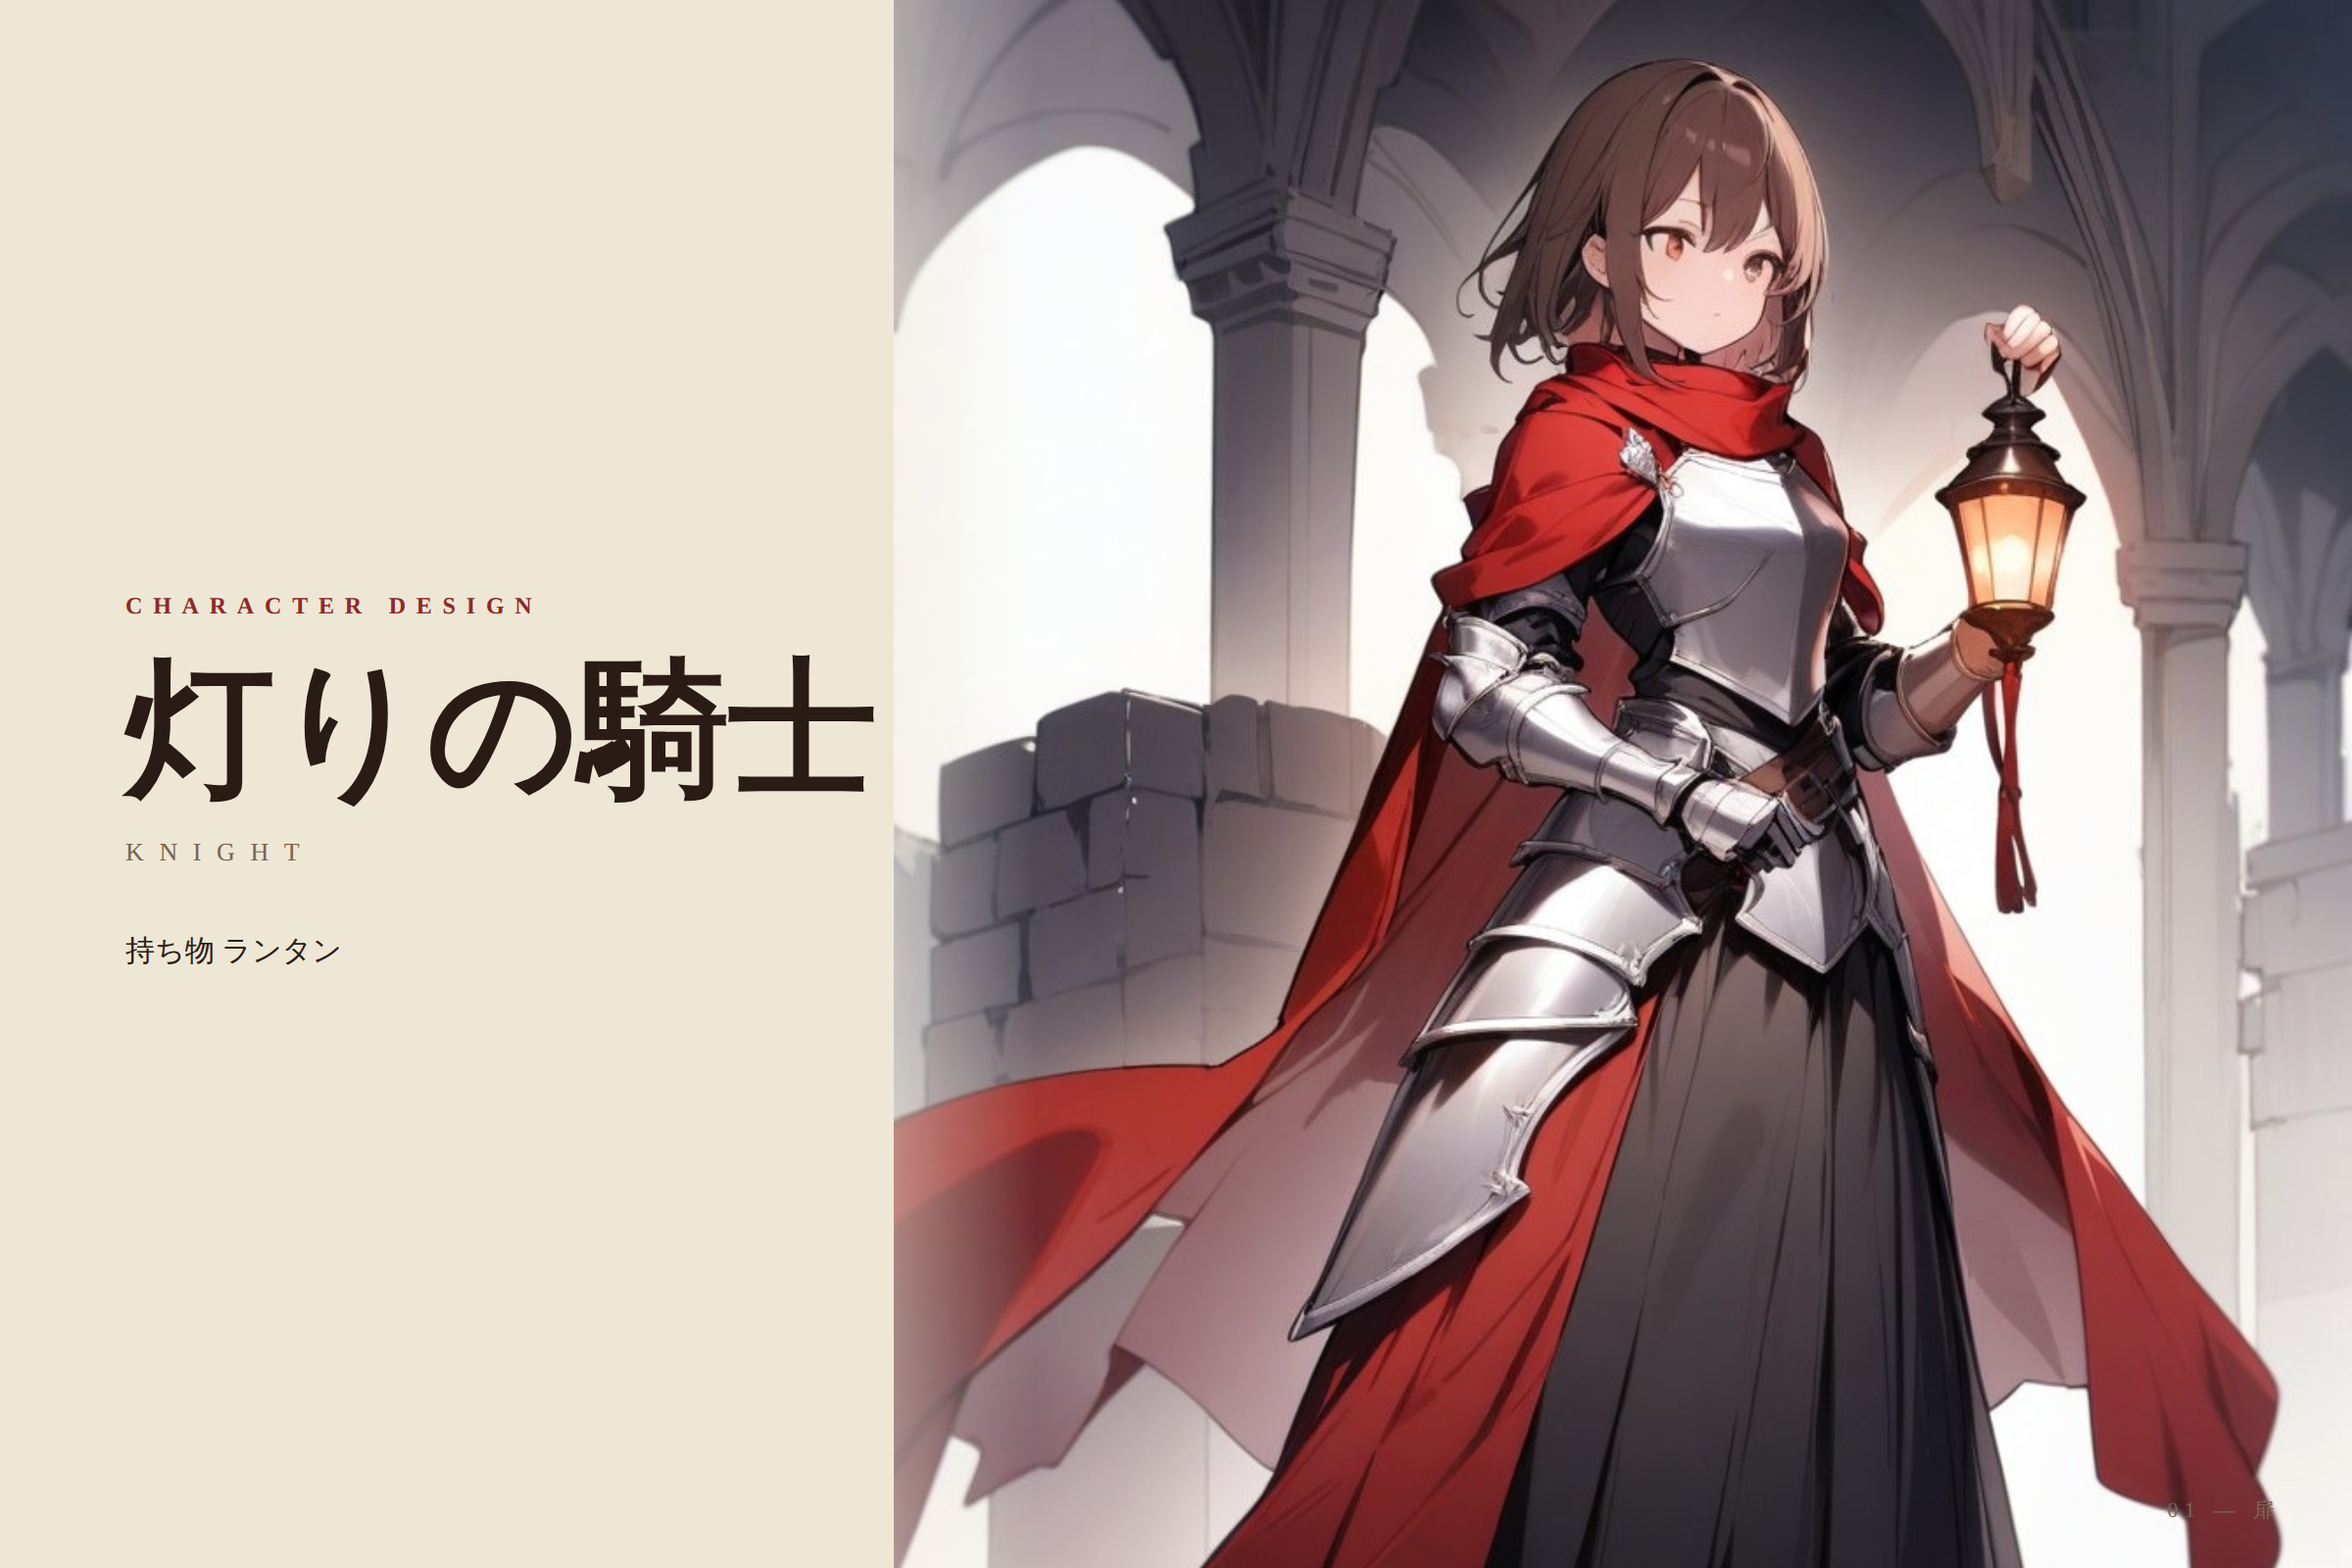
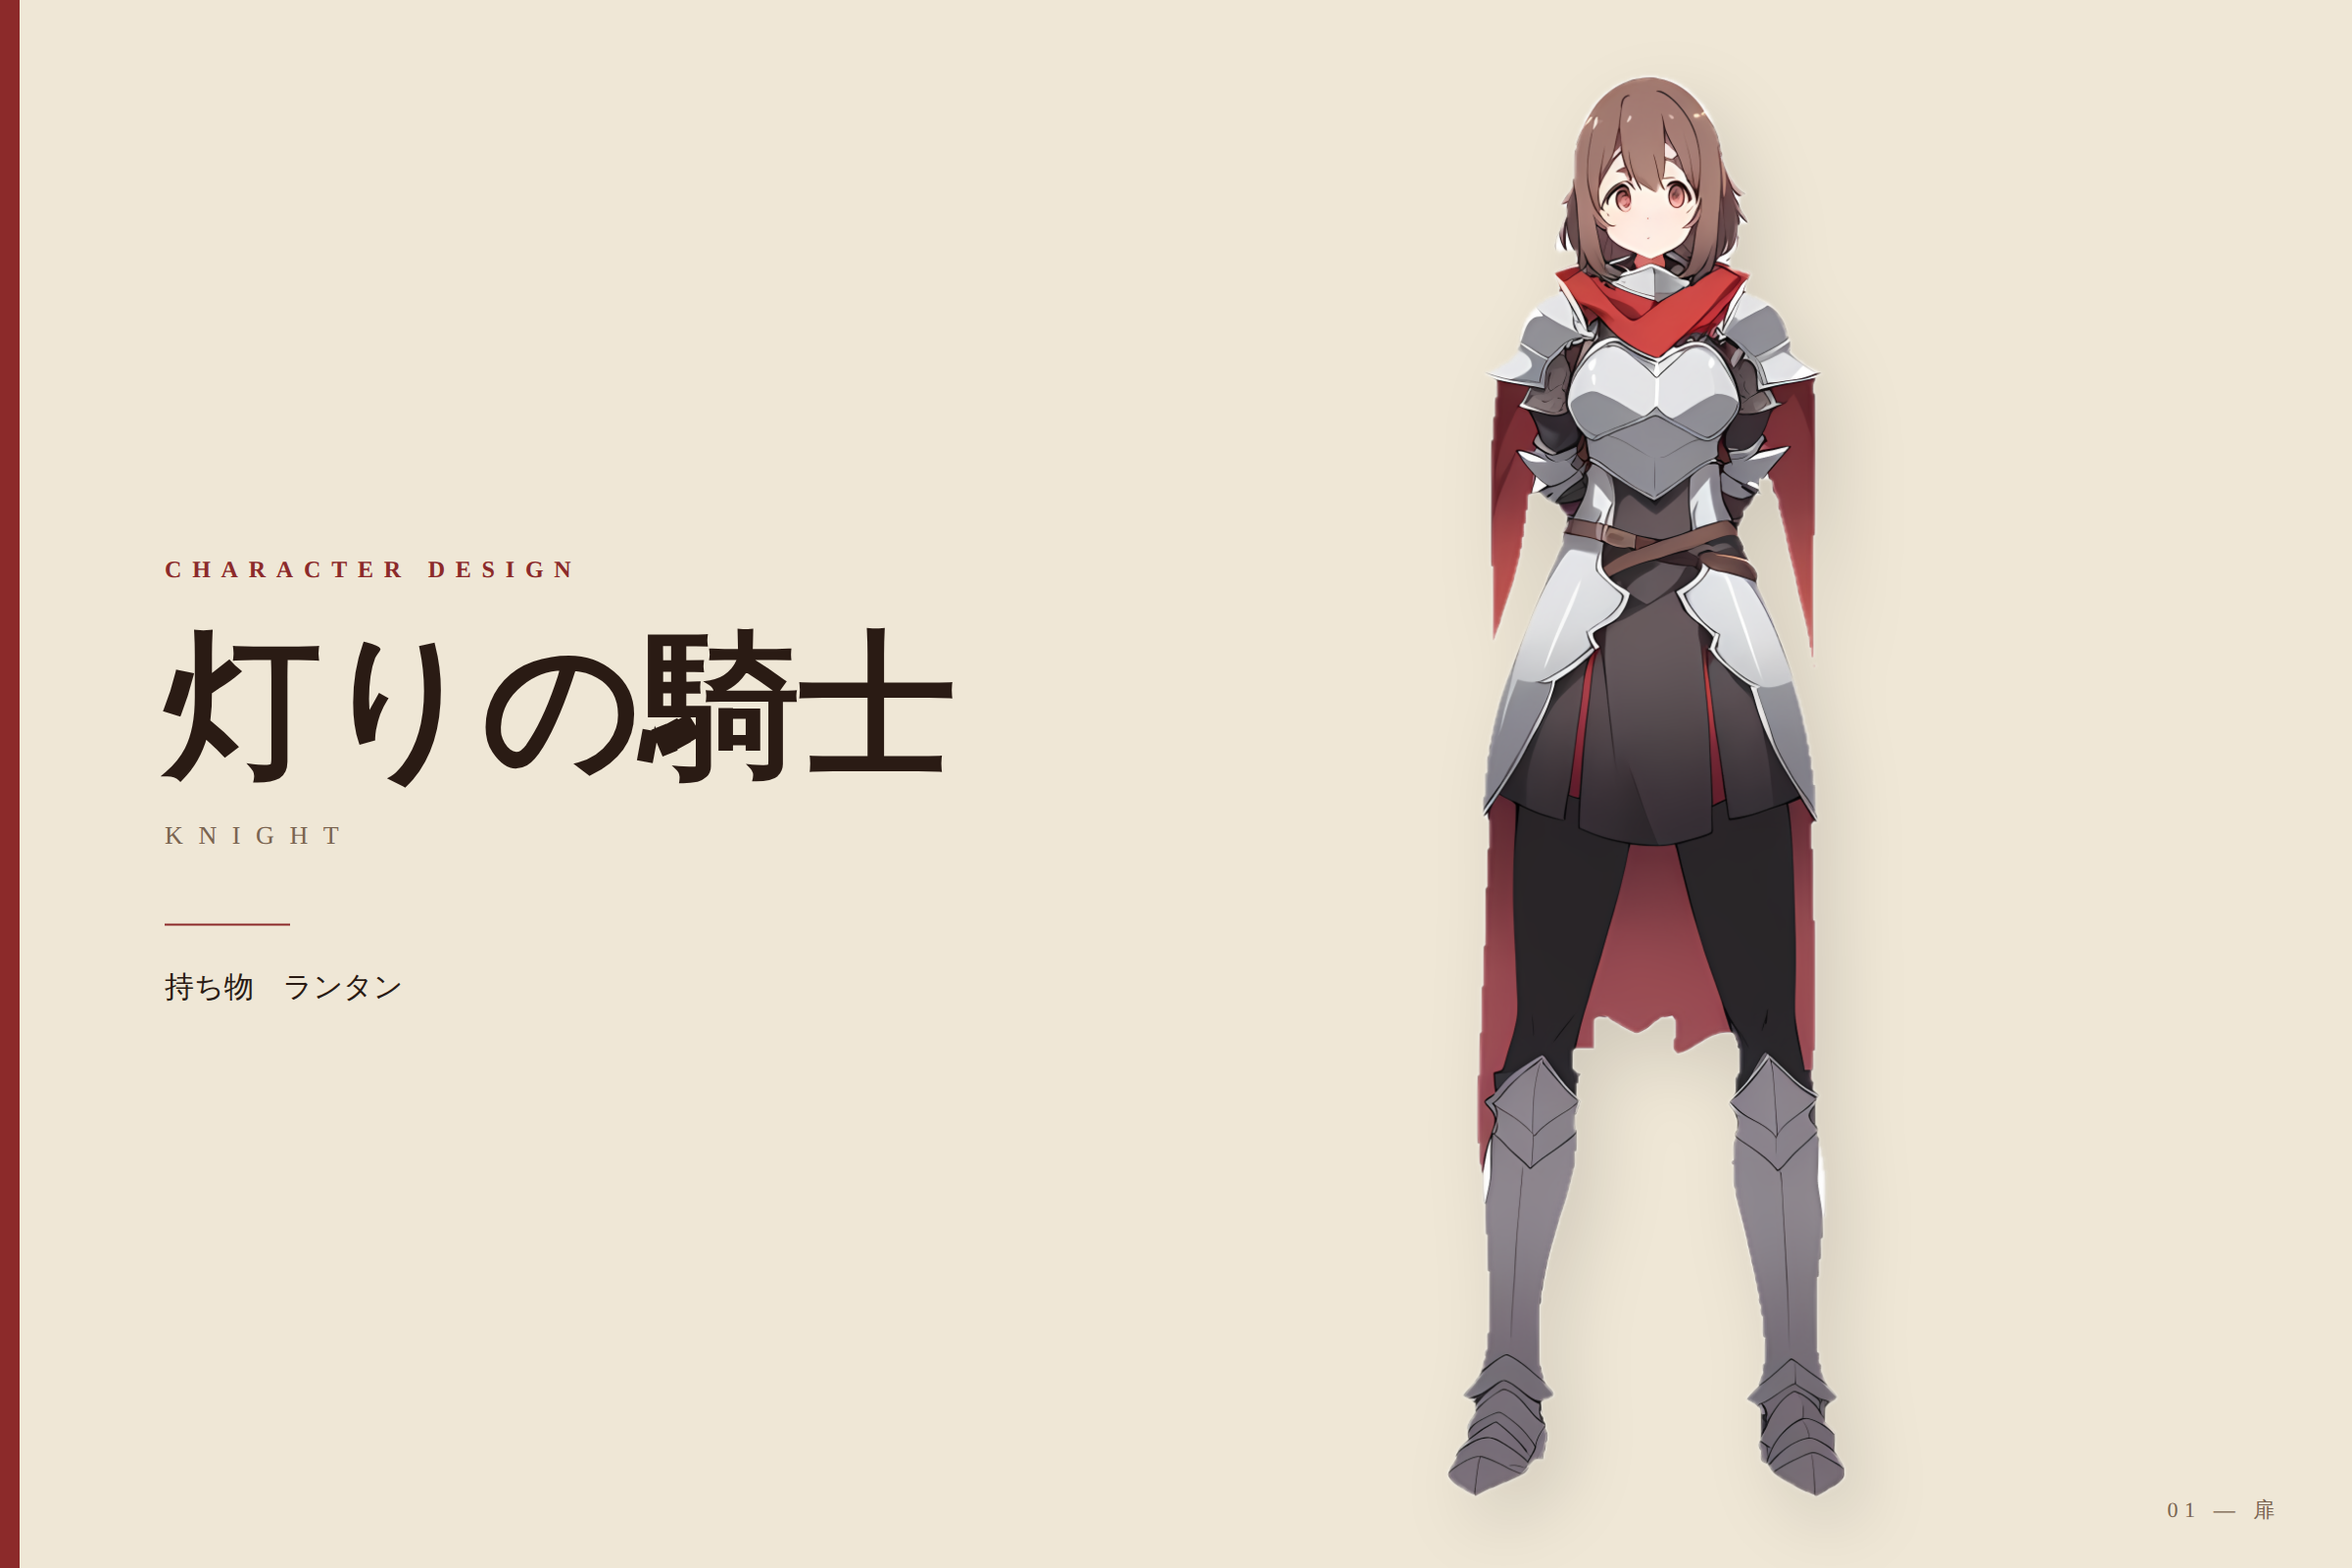
設定画集の扉で全身を欠けずに収め、背景の抜きを ViTMatte で仕上げる
扉は一枚絵を枠いっぱいに広げて左右を切っていた。全身は収め、空いた所に名前を置く。
髪の毛先の間に残った地の白は、覆いの縁を ViTMatte で抜き直して消す。

Claude-Session: https://claude.ai/code/session_01SckJ2FC4PhB88prMhjDTEV

diff --git a/tools/gen/charsheet.py b/tools/gen/charsheet.py
@@ -576,6 +576,19 @@ def _cutout(im, src=None):
                     continue
                 keep[sl] |= comp
             fg = ndimage.binary_fill_holes(keep) & (fg | person)
+            # 髪と腕の間など、人の形に囲まれた白い背景は縁につながらず残った。人の形の外の白は背景として抜く
+            # 白に近い（明るく色の薄い）画素。生成の地は真っ白でなく、薄い灰や黄みがかった白で残った
+            # SAM の人の形は粗く、髪の間の白い隙間まで人に含めた。地の色に近い白の塊は、服・顔・腕の部位
+            # （白いブラウス、肌の明るい所）に入っていなければ、人の形の内でも背景として抜く
+            mx, mn = a.max(axis=2), a.min(axis=2)
+            white = ((mn > 222) & (mx - mn < 14)) | (np.abs(a - ref).max(axis=2) < 26)   # 地の色そのものに近い薄い黄みの縁も含める
+            import edit
+            seg = np.asarray(edit.parts(src).resize(im.size, Image.NEAREST))
+            keepw = ndimage.binary_erosion(np.isin(seg, [4, 5, 6, 7, 11, 14, 15, 17]), iterations=2)
+            wl, wn = ndimage.label(white & ~keepw)
+            if wn:
+                ws = ndimage.sum(white, wl, range(1, wn + 1))
+                fg &= ~np.isin(wl, [i + 1 for i, v in enumerate(ws) if v >= 25])
             # 本体から離れた小さな欠片（抜け残りの赤い点）は外す
             lab2, n2 = ndimage.label(fg)
             if n2 > 1:
@@ -584,7 +597,49 @@ def _cutout(im, src=None):
     elif (~fg).mean() < 0.15:
         return Image.new("L", im.size, 255)
     m = Image.fromarray((fg * 255).astype("uint8"))
+    if src is not None:
+        mt = _matte(im, fg, a, src)
+        if mt is not None:
+            return mt
     return m.filter(ImageFilter.MaxFilter(3)).filter(ImageFilter.GaussianBlur(1.2))
+
+
+_VM = None
+
+
+def _matte(im, fg, a, src):
+    """覆いの縁を ViTMatte（覆いの内・外・保留の3値から、縁の透け具合を絵から推す模型）で抜き直す。
+    覆いを広げてぼかすだけでは、髪の毛先の間に地の白が残り、白い縁や白い塊に見えた。
+    白っぽい所は保留にして模型に判定させ、0.3 より不透明な所は完全に不透明にそろえる（顔や手が薄く透けた）"""
+    import numpy as np
+    from pathlib import Path
+    from PIL import Image
+    from scipy import ndimage
+    out = Path(str(src) + ".matte.png")
+    if out.exists() and out.stat().st_mtime >= Path(src).stat().st_mtime:
+        mt = Image.open(out)
+        return mt if mt.size == im.size else None
+    try:
+        import torch
+        from transformers import VitMatteImageProcessor, VitMatteForImageMatting
+        global _VM
+        if _VM is None:
+            name = "hustvl/vitmatte-small-composition-1k"
+            _VM = (VitMatteImageProcessor.from_pretrained(name), VitMatteForImageMatting.from_pretrained(name))
+        proc, model = _VM
+        whiteish = (a.min(axis=2) > 215) & ((a.max(axis=2) - a.min(axis=2)) < 30)
+        core = ndimage.binary_erosion(fg, iterations=6) & ~ndimage.binary_dilation(whiteish, iterations=3)
+        unk = ndimage.binary_dilation(fg, iterations=8)
+        tri = np.where(core, 255, np.where(unk, 128, 0)).astype("uint8")
+        inp = proc(images=im.convert("RGB"), trimaps=Image.fromarray(tri), return_tensors="pt")
+        with torch.no_grad():
+            al = model(**inp).alphas[0, 0].numpy()[:im.height, :im.width]
+        al = np.clip((al - 0.05) / 0.25, 0, 1)   # 顔・手・白い服は模型が半分ほどの透けと見たので、0.3 より上は不透明にする
+    except Exception:
+        return None
+    mt = Image.fromarray((al * 255).astype("uint8"))
+    mt.save(out)
+    return mt
 
 
 def _crop_face(im):

diff --git a/tools/gen/sheetbook.py b/tools/gen/sheetbook.py
@@ -161,30 +161,37 @@ def _theme(c):
 
 
 def page_cover(ident, c, th, hero, out):
-    """扉: 一枚絵（場面つきの色の絵があればそれ）を版面いっぱいに、名前を大きく"""
+    """扉: 全身を頭から足まで欠けずに大きく立たせ、左の余白に名前を置く。
+    一枚絵を枠いっぱいに広げると左右が切れ、全身像が欠けた。全身は収め、空いた所は余白として名前と線に使う"""
     from PIL import Image
-    # 扉の一枚絵は、検品を通ったポーズの絵を先に使う。色の絵は設定と違う服で描かれていることがある（羊娘で黒いシャツ）
     poses = cs._pose_list(c)
-    p = poses[0][1] if poses else c.get("images", {}).get("color")
-    art = Image.open(bible.ROOT / p).convert("RGB") if p else None
+    fig = None
+    if poses:
+        im = Image.open(bible.ROOT / poses[0][1])
+        fig = sl._cut_rgba(im, bible.ROOT / poses[0][1])
+        bb = fig.getchannel("A").getbbox()
+        fig = fig.crop(bb) if bb else None
+    fig = fig or hero
     name = html.escape(c["name"])
     items = "・".join(i["name"] for i in c.get("items", [])[:3])
-    if art is not None:
-        pic = f'<img class=art src="{sl._uri(art, "JPEG")}">'
-    else:
-        pic = f'<img class=art src="{sl._uri(hero)}" style="object-fit:contain">'
-    body = f"""{pic}<div class=veil></div>
-<div class=t><b>CHARACTER DESIGN</b><h1>{name}</h1><i>{html.escape(ident.upper())}</i>
-<p>持ち物 {html.escape(items)}</p></div><div class=folio>01 — 扉</div>"""
-    css = """.art{position:absolute;right:0;top:0;height:100%;width:62%;object-fit:cover;object-position:50% 20%}
-.veil{position:absolute;left:0;top:0;width:44%;height:100%;background:linear-gradient(90deg,var(--p) 70%,transparent)}
-.t{position:absolute;left:64px;top:50%;transform:translateY(-50%);width:460px}
+    fh = H - 60
+    s = min(fh / fig.height, (W * 0.52) / fig.width)
+    fw, fhh = fig.width * s, fig.height * s
+    fx = W * 0.70 - fw / 2
+    body = f"""<div class=band></div>
+<div class=t><b>CHARACTER DESIGN</b><h1>{name}</h1><i>{html.escape(ident.upper())}</i><hr>
+<p>持ち物　{html.escape(items)}</p></div>
+<img class=fig src="{sl._uri(fig)}" style="left:{fx:.0f}px;top:{H - 30 - fhh:.0f}px;width:{fw:.0f}px;height:{fhh:.0f}px">
+<div class=folio>01 — 扉</div>"""
+    css = """.band{position:absolute;left:0;top:0;width:10px;height:100%;background:ACCENT}
+.t{position:absolute;left:84px;top:50%;transform:translateY(-50%);width:420px}
 .t b{font-size:12px;letter-spacing:.45em;color:ACCENT}
-.t h1{font-family:'Noto Serif JP';font-weight:900;font-size:76px;line-height:1.1;margin:14px 0 10px}
+.t h1{font-family:'Noto Serif JP';font-weight:900;font-size:80px;line-height:1.1;margin:18px 0 12px}
 .t i{font-style:normal;font-size:13px;letter-spacing:.6em;color:SUBC}
-.t p{margin-top:28px;font-size:15px;line-height:1.9}"""
-    doc = _page(th, body, css).replace("var(--p)", th.get("page", "#f2efe8"))
-    _render(doc, out)
+.t hr{border:0;border-top:1px solid ACCENT;width:64px;margin:36px 0 18px}
+.t p{font-size:15px;line-height:1.9}
+.fig{position:absolute;filter:drop-shadow(10px 14px 18px rgba(0,0,0,.12))}"""
+    _render(_page(th, body, css), out)
 
 
 def page_design(ident, c, th, hero, src, out):

diff --git a/tools/gen/sheetlayout.py b/tools/gen/sheetlayout.py
@@ -42,7 +42,9 @@ def _cut_rgba(im, src=None):
     im = im.convert("RGB")
     from PIL import ImageFilter
     # 縁を2画素削る。白い背景の縁取りが残ると、暗い地のテーマで人物の周りに白い線が出た
-    m = cs._cutout(im, src).point(lambda v: 255 if v > 200 else 0).filter(ImageFilter.MinFilter(5)).filter(ImageFilter.GaussianBlur(0.8))
+    m = cs._cutout(im, src)
+    if src is None or not Path(str(src) + ".matte.png").exists():   # ViTMatte で抜いた覆いは縁の透けを持つので、そのまま使う
+        m = m.point(lambda v: 255 if v > 200 else 0).filter(ImageFilter.MinFilter(5)).filter(ImageFilter.GaussianBlur(0.8))
     out = im.convert("RGBA")
     out.putalpha(m)
     return out
